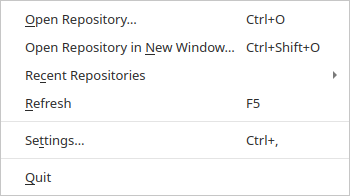
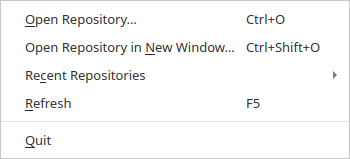
RZG-89: Move Settings to a new Edit menu (Edit → Settings…)
The menu bar is File, Edit, Repository, View. Edit holds only Settings…
(Ctrl+, as before); Copy, Select All and Find stay the panels' own shortcuts,
since window-level actions on those keys would clash with them. File loses
Settings… and the separator that came with it. The user guide shows the Edit
menu, and the screenshots are made again.

diff --git a/tests/test_settings_window.py b/tests/test_settings_window.py
@@ -181,7 +181,7 @@ class SettingsWindowTests(unittest.TestCase):
 
 
 class OpeningTests(unittest.TestCase):
-    """File → Settings… (Ctrl+,), one window for the app (spec §8.2)."""
+    """Edit → Settings… (Ctrl+,), one window for the app (spec §8.2)."""
 
     @classmethod
     def setUpClass(cls):
@@ -204,12 +204,19 @@ class OpeningTests(unittest.TestCase):
         self.windows.shutdown()
         QCoreApplication.sendPostedEvents(None, QEvent.Type.DeferredDelete)
 
-    def test_the_file_menu_entry_and_shortcut(self):
+    def test_the_edit_menu_entry_and_shortcut(self):
+        """RZG-89: Edit → Settings…, between File and Repository; no longer in File."""
         window = self.windows.new_window()
         action = window.ctx.actions.settings
         self.assertEqual(action.shortcut().toString(), "Ctrl+,")
-        file_menu = window.menuBar().actions()[0].menu()
-        self.assertIn(action, file_menu.actions())
+        bar = window.menuBar().actions()
+        self.assertEqual([a.text() for a in bar], ["&File", "&Edit", "&Repository", "&View"])
+        file_menu, edit_menu = bar[0].menu(), bar[1].menu()
+        self.assertEqual(edit_menu.actions(), [action])
+        self.assertNotIn(action, file_menu.actions())
+        # File: no two separators in a row, and none at either end.
+        kinds = [a.isSeparator() for a in file_menu.actions()]
+        self.assertFalse(kinds[0] or kinds[-1] or any(a and b for a, b in zip(kinds, kinds[1:])))
 
     def test_one_window_for_the_app_closed_with_the_last_main_window(self):
         one, two = self.windows.new_window(), self.windows.new_window()

diff --git a/src/rzgit/ui/main_window.py b/src/rzgit/ui/main_window.py
@@ -94,10 +94,12 @@ class MainWindow(QMainWindow):
                                           self.open_in_window, file_menu))
         file_menu.addAction(actions.refresh)
         file_menu.addSeparator()
-        file_menu.addAction(actions.settings)  # spec §8.2
-        actions.settings.triggered.connect(self.show_settings)
-        file_menu.addSeparator()
         file_menu.addAction(actions.quit)
+
+        # Edit, between File and Repository: Settings… alone for now (spec §8, §8.2).
+        edit_menu = self.menuBar().addMenu("&Edit")
+        edit_menu.addAction(actions.settings)
+        actions.settings.triggered.connect(self.show_settings)
 
         actions.discard.triggered.connect(self.discard_selected)
         actions.discard_lines_requested.connect(self.discard_lines)

diff --git a/src/rzgit/ui/app_actions.py b/src/rzgit/ui/app_actions.py
@@ -125,7 +125,7 @@ class AppActions(QObject):
         self.quit = self._action(
             "application-exit", "&Quit", QKeySequence.StandardKey.Quit
         )
-        # File → Settings… (spec §8.2): connected by MainWindow.
+        # Edit → Settings… (spec §8.2, RZG-89): connected by MainWindow.
         self.settings = self._action("configure", "Se&ttings…", "Ctrl+,")
         self.reset_layout = self._action("view-restore", "&Reset Layout")
         self.side_by_side_diff = self._action("view-split-left-right", "&Side by Side Diff")

diff --git a/docs/ARCHITECTURE.md b/docs/ARCHITECTURE.md
@@ -2650,6 +2650,10 @@ Per-widget sheets are slow to apply and scatter the rules.
     working directory): `$TERMINAL` if set and found (split like a shell would), else the first of
     `konsole`, `gnome-terminal`, `xfce4-terminal`, `x-terminal-emulator` on the `PATH`
     (`find_terminal`). If neither works, a box says so. No git runs.
+- **The menu bar** is File, Edit, Repository, View (RZG-89). Edit holds only Settings…
+  for now: Copy, Select All and Find stay the panels' own shortcuts, since window-level
+  actions on the same keys would clash with them. When Edit gets more entries, Settings…
+  goes last, after a separator (the KDE and GNOME place for preferences).
 - **`MainWindow`** is a thin shell: menus built from `AppActions`, the status
   bar summary (from session signals: path · branch · commits · changed files), error dialogs (from `error_occurred`), and a
   `LayoutHost` as the central widget. The Open, Quit and Reset Layout handlers live here
@@ -2856,7 +2860,7 @@ window while it's open (§8.1). Layouts and columns aren't in it either.
     com.visualstudio.code`; empty means `code`. If its program isn't found, the entry is
     disabled. `vscode_launcher.py` (RZG-96; RZG-75 reuses it).
 - **The window:** `SettingsWindow` (`ui/settings_window.py`) is a top-level window, not
-  modal, one for the app: **File → Settings…** (`AppActions.settings`, Ctrl+,) shows it
+  modal, one for the app: **Edit → Settings…** (`AppActions.settings`, Ctrl+,, RZG-89) shows it
   and raises it if open (`AppWindows.show_settings`; a `MainWindow` without `AppWindows`
   has its own). It doesn't keep the app running (`WA_QuitOnClose` off), and it closes with
   the last main window.

diff --git a/docs/USAGE.md b/docs/USAGE.md
@@ -504,9 +504,11 @@ built on blue and orange instead of green and red, so they stay distinct with th
 kinds of colour blindness. The theme changes at once in every
 window.
 
+![The Edit menu](screenshots/menu-edit.png)
+
 ![The Settings window](screenshots/settings.png)
 
-**Settings.** **File → Settings…** (Ctrl+,) opens the Settings window, which has a page
+**Settings.** **Edit → Settings…** (Ctrl+,) opens the Settings window, which has a page
 for each group of settings. A change takes effect at once, in every window, and nothing
 needs a restart.
 
